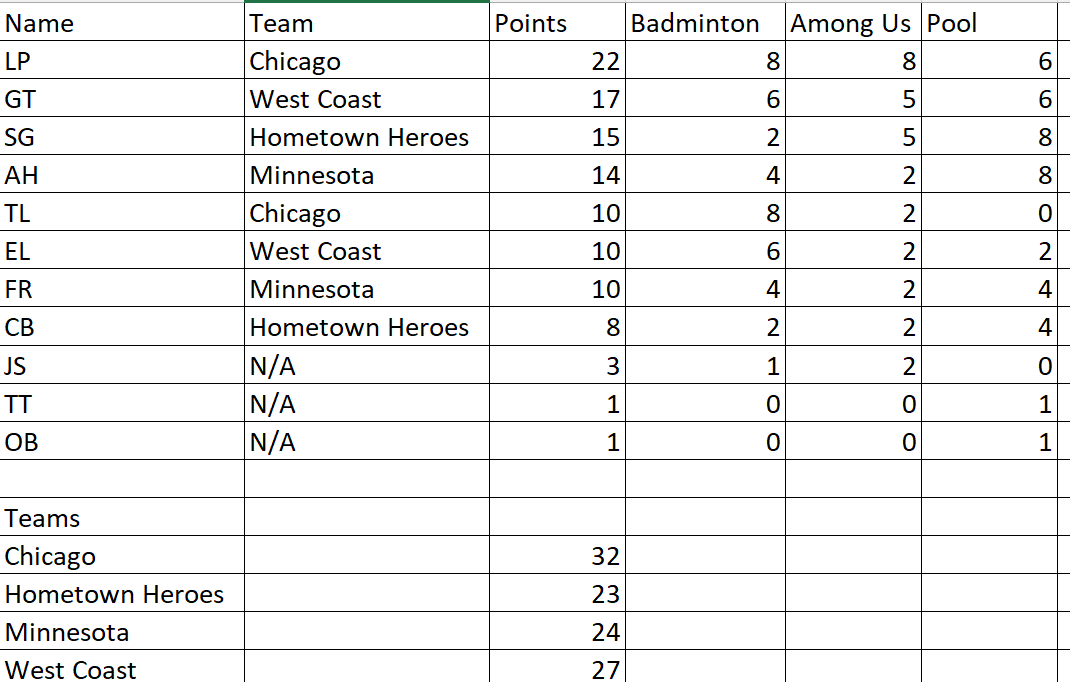
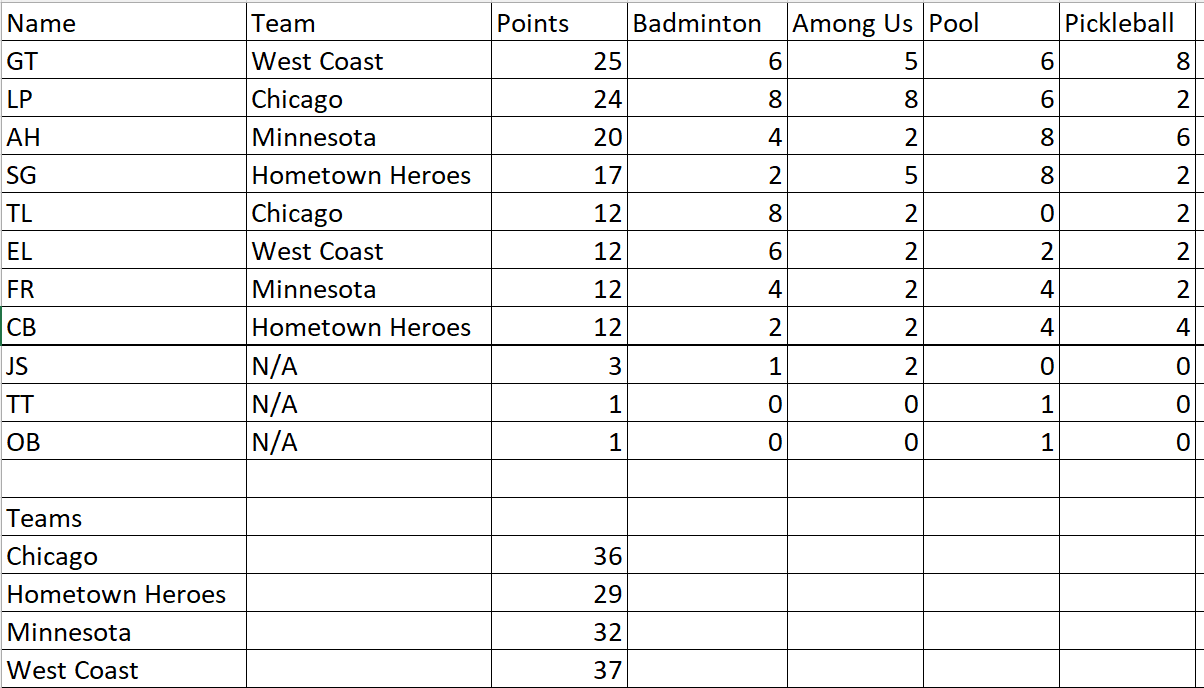
Add files via upload

diff --git a/results.html b/results.html
@@ -25,10 +25,13 @@
 <h1 class="pgtitle">Standings</h1>
 <img class="standings" src="standings.png">
 <br>
-<h4>Updated as of: February 29th</h4>
-<p>The competition is heating up, with Team Chicago still in the lead behind several strong performances from Lindsey. 
-    Team West Coast sits in second, with Grant also in second place individually. With another event coming up in just a few
-    days, expect even more shakeup with the results as close as they currently are. 
+<h4>Updated as of: March 3rd</h4>
+<p>After another strong performance from Grant which puts him first individually, Team West Coast has taken the lead in 
+    the competition after 4 events. Team 
+    Chicago is not far behind, sitting one point back after a tough day on the windy pickleball courts. Alexa also moved 
+    herself up the rankings, and helped distance Team Minnesota ahead of last place Team Hometown Heroes. The last event 
+    prior to Spring Break has been played, with more events to come in a few weeks. Until then, Team West Coast and Grant 
+    will have bragging rights. 
 </p>
 </div>
 </body>

diff --git a/pickleball.html b/pickleball.html
@@ -30,7 +30,11 @@
 </p>
 <img id="pickleballimg" src="pickleballbracket.jpg">
 <h2>Recap</h2>
-<p>
+<p>The headline of the event was a blowing wind that kept players on edge, and a marching band competition that kept the games 
+    outside. However, the games went on with a live band performance and a passing train. 
+    Grant had an outstanding day, dominating on his way to a gold medal and the overall individual points lead. Alexa had another
+    strong performance, finishing with silver and propeling herself into third place overall. Colton rounded out the 
+    medal placement with bronze. It was a rough day for Team Chicago, which saw both team members bow out early. 
 </p>
 </div>
 </body>

diff --git a/index.html b/index.html
@@ -43,13 +43,16 @@
 <!--Everything below this will receive continuous updates-->
     <h2>Updates</h2>
 
-    <h4>February 29th</h4>
-    <p>Added information on pickleball and updated results to include pool results from last Sunday.</p>
-
+    <h4>March 3rd</h4>
+    <p>Updated to reflect pickleball tournament. </p>
 
     <button id="updatebutton">Show/Hide Previous Updates</button>
     
     <div class="hideupdates" id="hiddenupdates" >
+   
+   
+    <h4>February 29th</h4>
+    <p>Added information on pickleball and updated results to include pool results from last Sunday.</p>
     
     <h4>February 22nd</h4>
     <p>Pool tab was added with bracket and additional information.</p>
